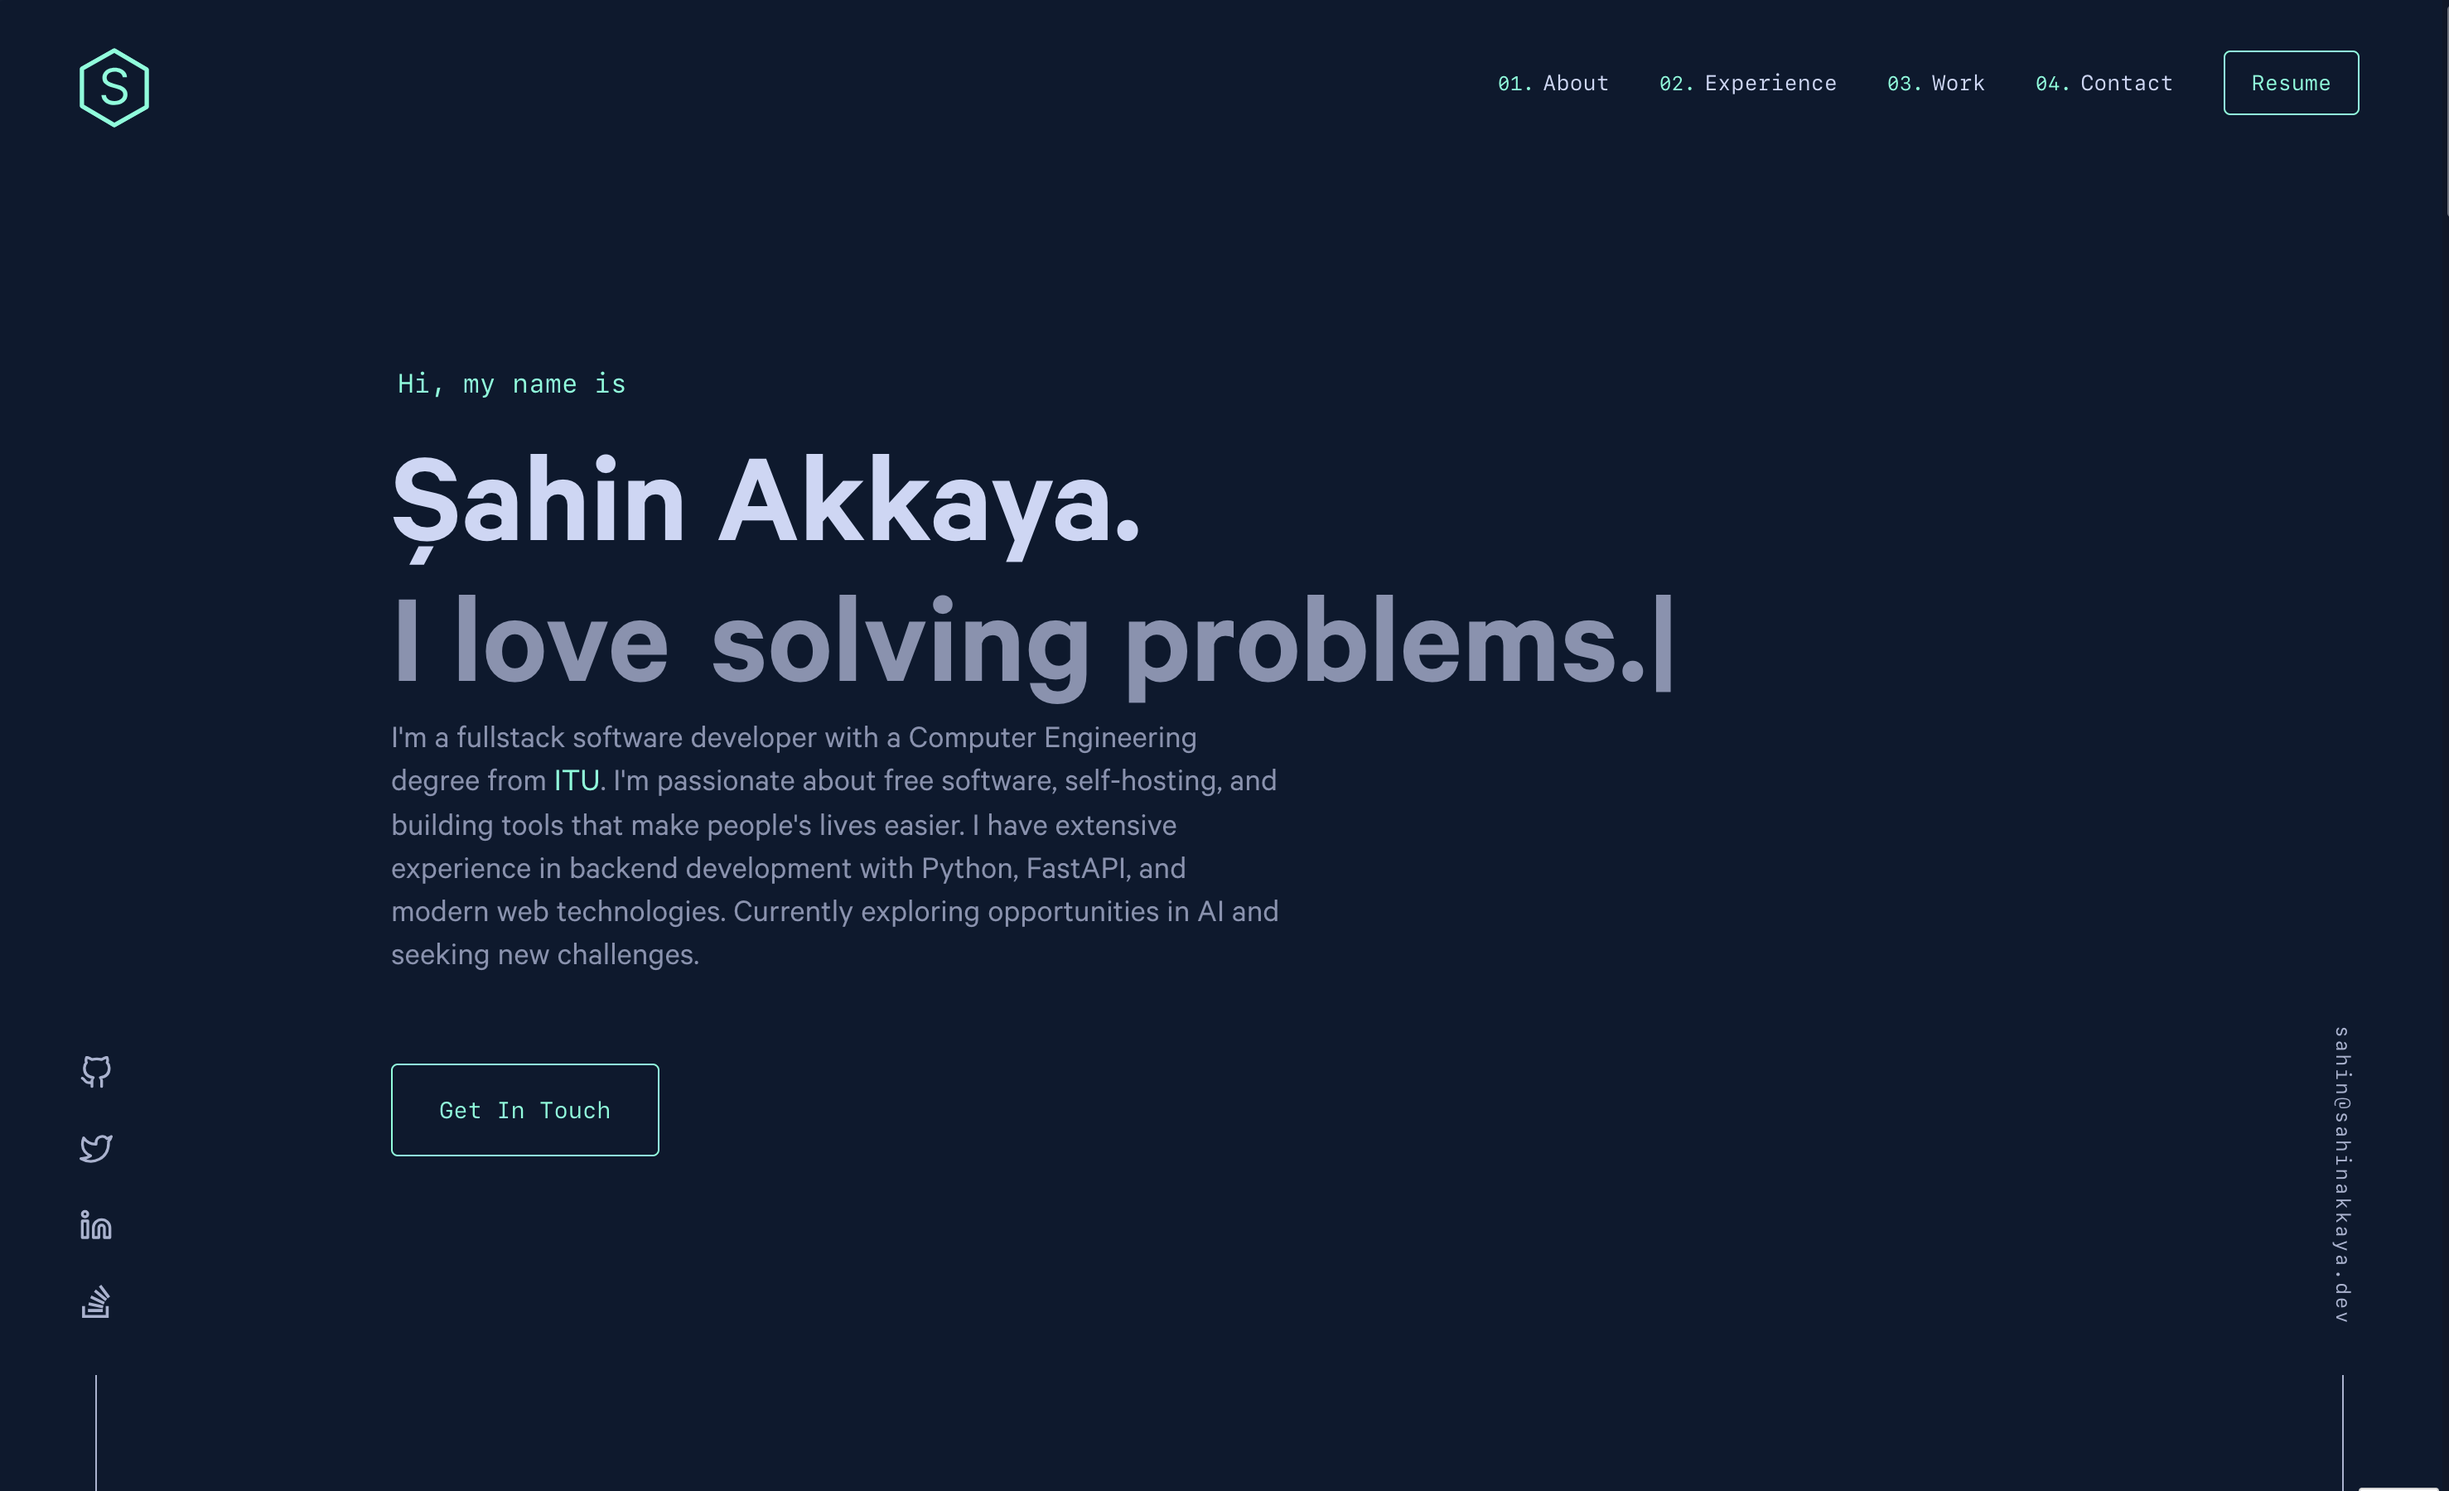
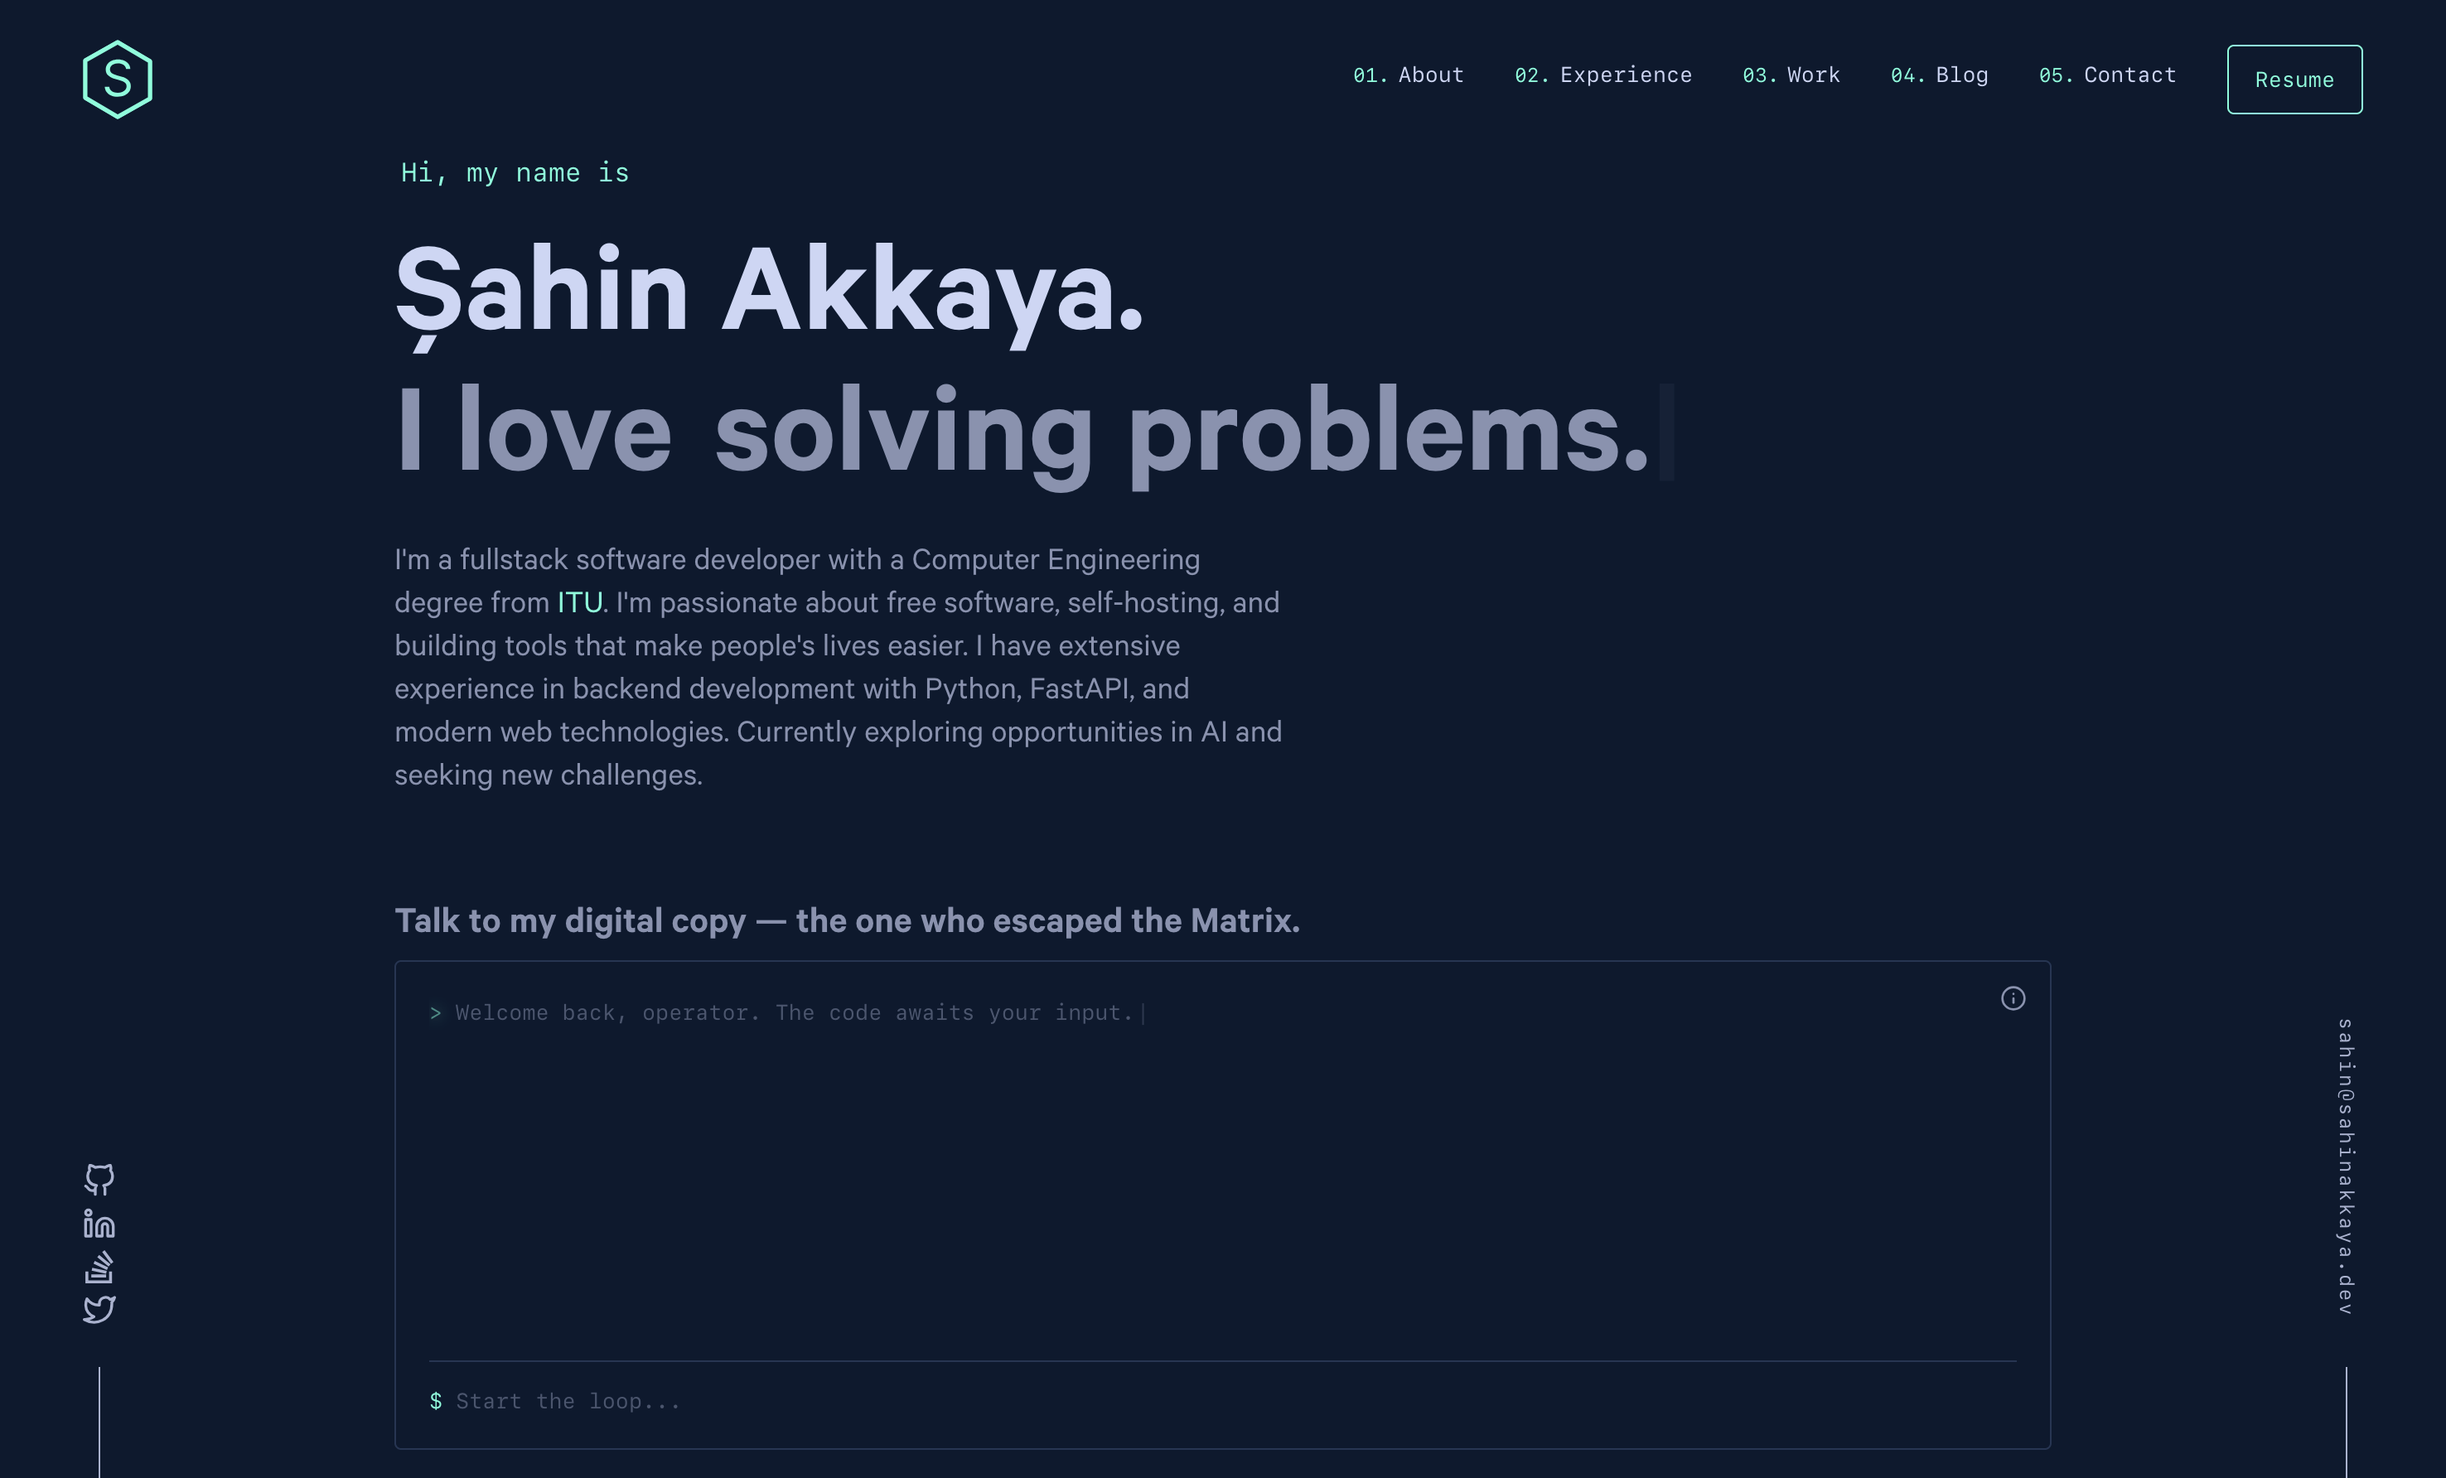
Add chat bot as a project

diff --git a/content/projects/chat.md b/content/projects/chat.md
@@ -1,0 +1,15 @@
+---
+date: '2'
+title: 'AI Chat Bot'
+github: null
+external: 'https://sahinakkaya.dev'
+image: '/content/projects/chat.png'
+tech:
+  - Python
+  - Kafka
+  - Redis
+  - Docker
+showInProjects: true
+---
+
+A chat bot built with Python microservices, featuring a WebSocket server for real-time communication, an AI consumer that processes messages via Kafka and OpenAI, and a relay service that distributes responses through Redis pub/sub. Scroll to the start of the page to try it live.

diff --git a/content/projects/binary-clock-wallpaper.md b/content/projects/binary-clock-wallpaper.md
@@ -1,5 +1,5 @@
 ---
-date: '5'
+date: '6'
 title: 'Binary Clock Wallpaper'
 github: 'https://github.com/sahinakkaya/binary-clock-wallpaper'
 external: null

diff --git a/content/projects/dotfiles.md b/content/projects/dotfiles.md
@@ -1,5 +1,5 @@
 ---
-date: '6'
+date: '7'
 title: 'My precious rice'
 github: 'https://github.com/sahinakkaya/dotfiles/tree/old-dots'
 external: null

diff --git a/content/projects/requests-dashboard.md b/content/projects/requests-dashboard.md
@@ -1,5 +1,5 @@
 ---
-date: '2'
+date: '3'
 title: 'Requests Dashboard'
 github: 'https://github.com/sahinakkaya/requests-dashboard/'
 external: null

diff --git a/content/projects/github-profile.md b/content/projects/github-profile.md
@@ -1,5 +1,5 @@
 ---
-date: '7'
+date: '8'
 title: 'Visit my Github profile for more'
 github: 'https://github.com/sahinakkaya/'
 tech: []

diff --git a/content/projects/rattrap.md b/content/projects/rattrap.md
@@ -1,5 +1,5 @@
 ---
-date: '4'
+date: '5'
 title: 'RatTrap'
 github: 'https://github.com/sahinakkaya/rattrap'
 external: null

diff --git a/content/projects/chess.md b/content/projects/chess.md
@@ -1,5 +1,5 @@
 ---
-date: '3'
+date: '4'
 title: 'Chess'
 github: 'https://github.com/sahinakkaya/chess'
 external: null
